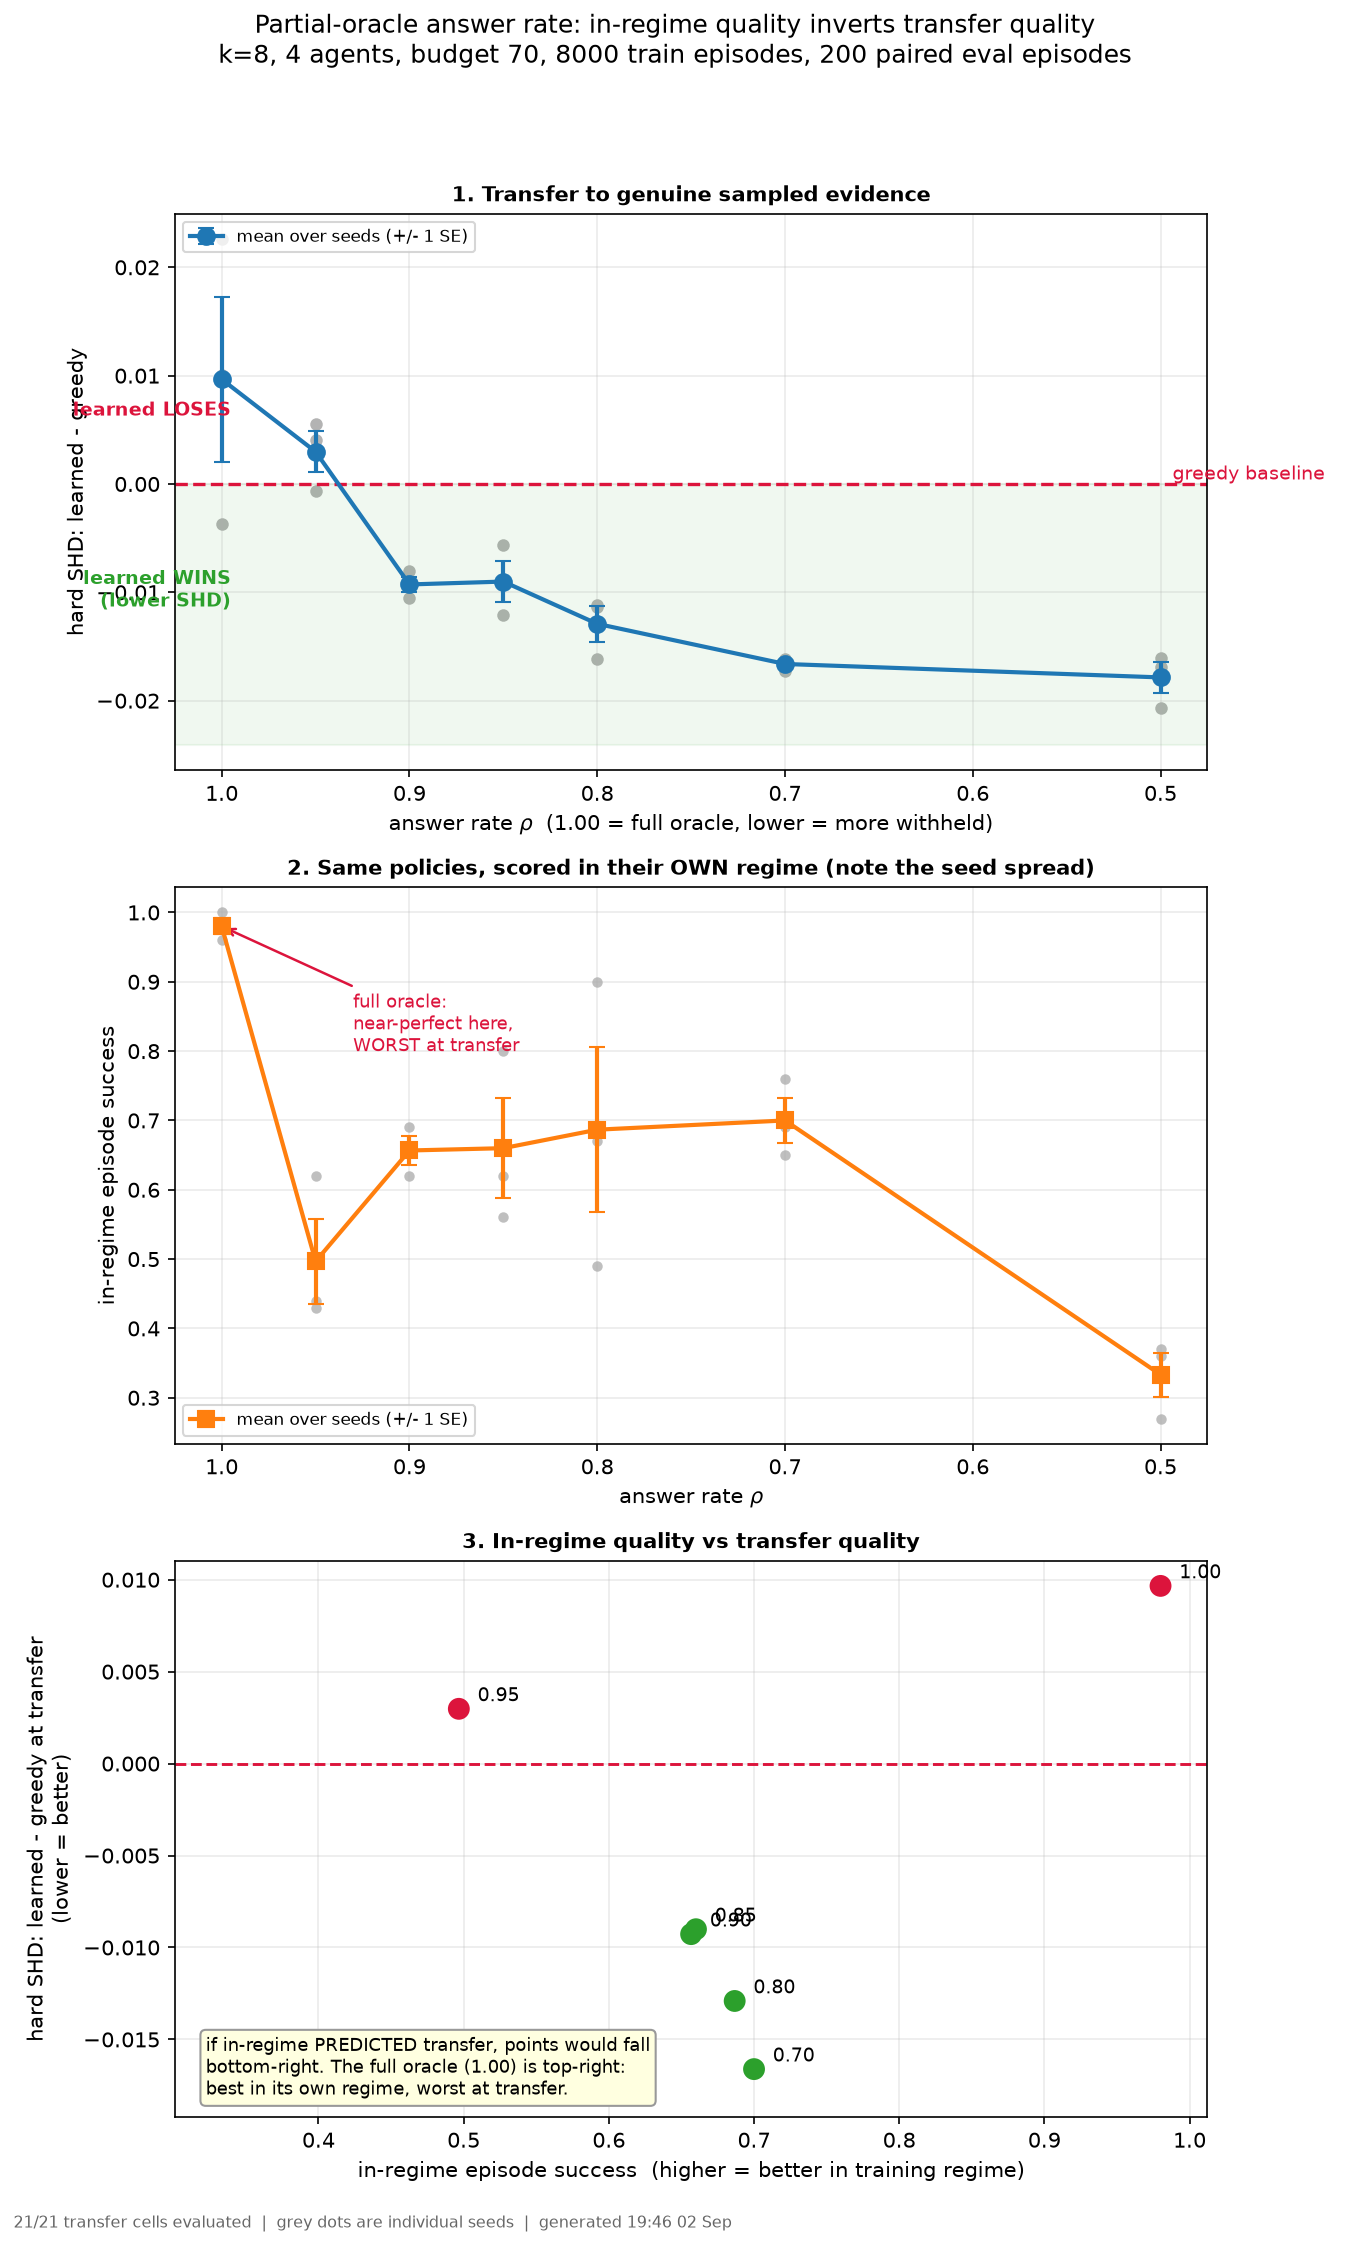
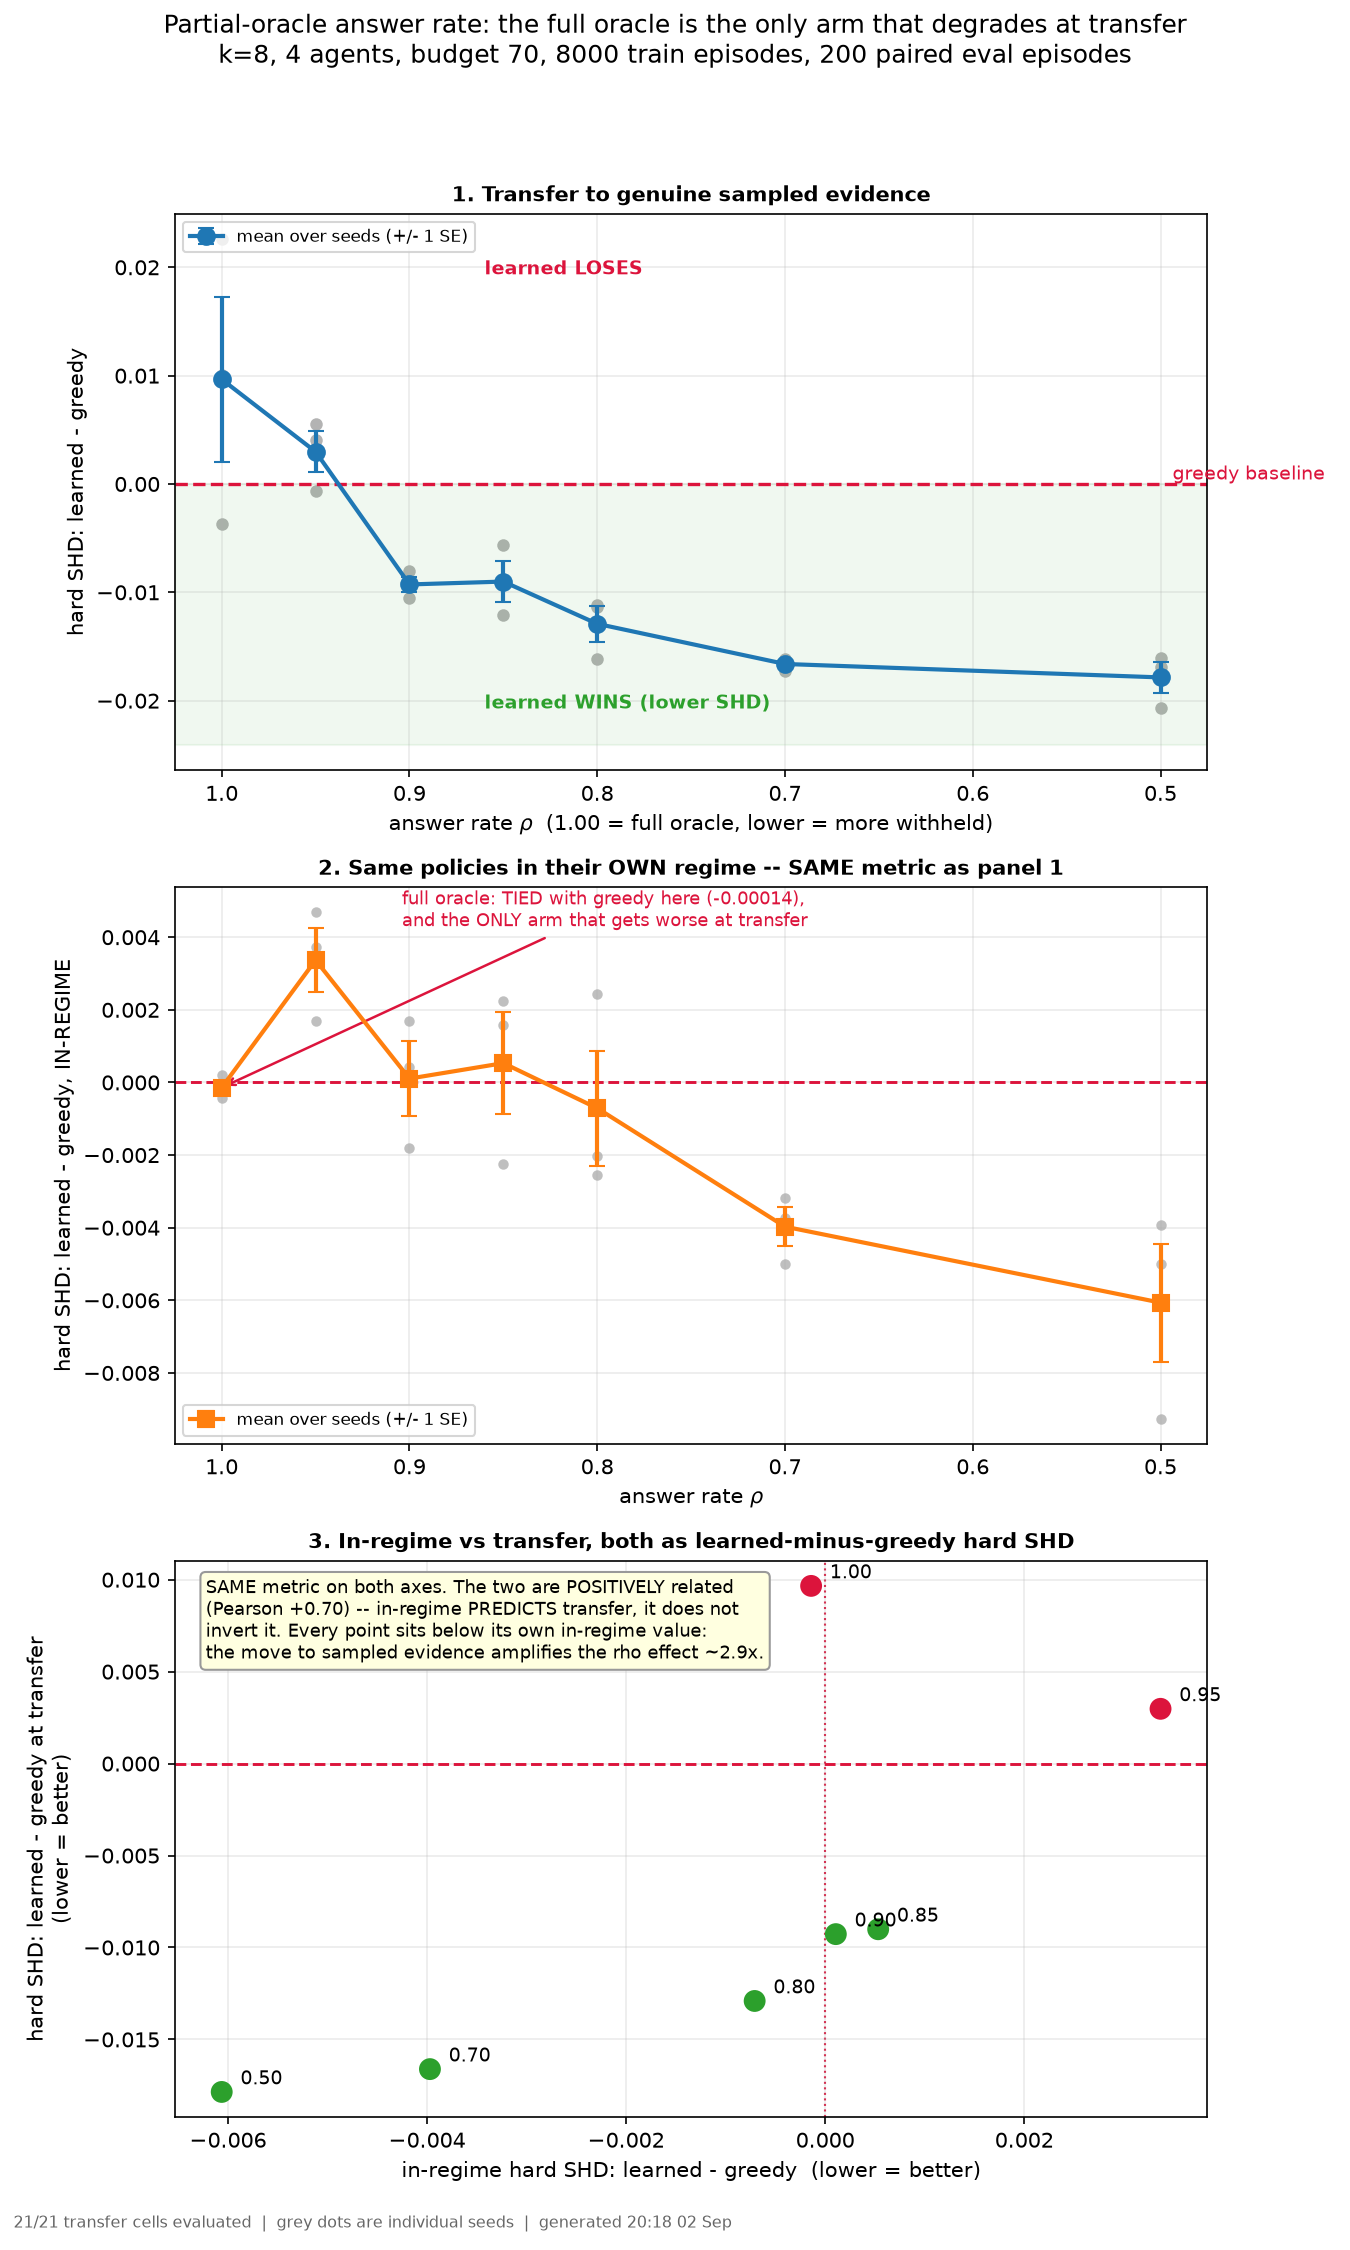
figure rebuilt on hard SHD delta both axes: retracts the inversion framing, fixes an escaping annotation arrow and a text box that was hiding rho=0.70 and 0.50

diff --git a/scripts/plot_rho_curve.py b/scripts/plot_rho_curve.py
@@ -6,11 +6,13 @@ measurements and a single panel hides whichever one it does not plot:
   1. TRANSFER -- learned minus greedy hard SHD against rho, with per-seed points shown, not
      just the mean. The zero line is the whole claim: below it the learned policy beats the
      myopic rule under evidence it never trained on.
-  2. IN-REGIME -- the same policies scored in their own training regime. Plotted on the same
-     rho axis so the inversion is visible by eye rather than asserted in prose.
-  3. THE INVERSION DIRECTLY -- in-regime quality against transfer quality, one point per rate.
-     If in-regime predicted transfer these would fall on a rising line; the claim is that they
-     do the opposite.
+  2. IN-REGIME -- the same policies scored in their own training regime, on the SAME metric,
+     so the two panels are directly comparable rather than only visually analogous.
+  3. THE TWO AGAINST EACH OTHER -- one point per rate. Both axes are learned-minus-greedy hard
+     SHD, and the relationship is POSITIVE: in-regime predicts transfer. An earlier version
+     plotted in-regime  here against transfer SHD and appeared to show an inversion;
+     that was a metric mismatch, since  is the saturating all-agents conjunction and
+     rho=1.00 scores 0.980 on it while being merely TIED with greedy on SHD.
 
 Per-seed points are drawn on panel 1 because the across-seed spread is the term that decides
 whether two rates differ, and a mean with an error bar invites the reader to forget there are
@@ -46,17 +48,26 @@ def load_transfer(directory):
 
 
 def load_inregime(directory):
+    """In-regime learned-MINUS-GREEDY hard SHD, per rate per seed.
+
+    THE DELTA, NOT `success`, AND THIS MATTERS. Until 2 Sep this returned
+    `arms.learned.success` and the figure compared it against the transfer SHD delta -- a
+    saturating all-agents conjunction on one axis against a continuous paired difference on
+    the other. That mismatch produced a spurious "in-regime anti-predicts transfer" reading:
+    rho=1.00 scores 0.980 on success and looks dominant, but on hard SHD delta it is merely
+    TIED with greedy at -0.00014. Measured consistently the two are POSITIVELY correlated
+    (Pearson +0.703). Both axes are now the same quantity, learned minus greedy hard SHD.
+    """
     rows = collections.defaultdict(list)
     for path in sorted(glob.glob(os.path.join(directory, "rho*_s*.json"))):
-        if "xfer" in os.path.basename(path):
+        if "xfer" in os.path.basename(path) or "_long_" in os.path.basename(path):
             continue
         m = re.search(r"rho([0-9.]+)_s(\d+)\.json$", os.path.basename(path))
         if not m:
             continue
-        d = json.loads(open(path).read())
-        a = d["arms"]
-        rows[float(m.group(1))].append((a["learned"]["success"],
-                                        a["learned"]["global_hard_shd"]))
+        a = json.loads(open(path).read())["arms"]
+        delta = a["learned"]["global_hard_shd"] - a["greedy_uncertainty"]["global_hard_shd"]
+        rows[float(m.group(1))].append(delta)
     return rows
 
 
@@ -73,7 +84,7 @@ def main(argv=None):
         return
 
     fig, axes = plt.subplots(3, 1, figsize=(9.0, 15.0))
-    fig.suptitle("Partial-oracle answer rate: in-regime quality inverts transfer quality\n"
+    fig.suptitle("Partial-oracle answer rate: the full oracle is the only arm that degrades at transfer\n"
                  "k=8, 4 agents, budget 70, 8000 train episodes, 200 paired eval episodes",
                  fontsize=12, y=0.995)
 
@@ -90,10 +101,12 @@ def main(argv=None):
     ax.axhline(0, color="crimson", lw=1.6, ls="--", zorder=2)
     ax.text(0.5, 0.0, "  greedy baseline", color="crimson", va="bottom", fontsize=9)
     ax.axhspan(min(means + [0]) * 1.35 if means else -0.02, 0, color="C2", alpha=0.07)
-    ax.text(0.995, min(means) * 0.55 if means else -0.01, "learned WINS\n(lower SHD)",
-            color="C2", fontsize=9, ha="right", va="center", weight="bold")
-    ax.text(0.995, max(means) * 0.7 if max(means) > 0 else 0.005,
-            "learned LOSES", color="crimson", fontsize=9, ha="right", va="center", weight="bold")
+    # Axes-fraction, not data. In data coordinates x=0.995 sits on the inverted axis's left
+    # edge, where these labels landed on top of the y-tick text.
+    ax.text(0.30, 0.12, "learned WINS (lower SHD)", transform=ax.transAxes,
+            color="C2", fontsize=9, ha="left", va="center", weight="bold")
+    ax.text(0.30, 0.90, "learned LOSES", transform=ax.transAxes,
+            color="crimson", fontsize=9, ha="left", va="center", weight="bold")
     ax.set_xlabel(r"answer rate $\rho$  (1.00 = full oracle, lower = more withheld)")
     ax.set_ylabel("hard SHD: learned - greedy")
     ax.set_title("1. Transfer to genuine sampled evidence", fontsize=10, weight="bold")
@@ -104,34 +117,40 @@ def main(argv=None):
     # -- panel 2: in-regime ------------------------------------------------------------------
     ax = axes[1]
     ir_rates = sorted(inreg)
-    succ = [float(np.mean([v[0] for v in inreg[r]])) for r in ir_rates]
+    succ = [float(np.mean(inreg[r])) for r in ir_rates]
     # ERROR BARS ADDED 2 Sep after this panel misled me. Plotted as bare means, the dip at
     # rho=0.95 looks like a cliff; with the seed spread drawn it is visibly one noisy point
     # among several, and rho=0.80's own three seeds span more than the dip being pointed at.
     # A mean without its spread invites exactly the story I spent two hours chasing.
-    ir_se = [float(np.std([v[0] for v in inreg[r]], ddof=1) / np.sqrt(len(inreg[r])))
+    ir_se = [float(np.std(inreg[r], ddof=1) / np.sqrt(len(inreg[r])))
              if len(inreg[r]) > 1 else np.nan for r in ir_rates]
     ax.errorbar(ir_rates, succ, yerr=ir_se, fmt="s-", color="C1", lw=2, ms=8, capsize=4,
                 zorder=3, label="mean over seeds (+/- 1 SE)")
     for r in ir_rates:
-        ax.plot([r] * len(inreg[r]), [v[0] for v in inreg[r]], "o", color="0.75", ms=4, zorder=1)
+        ax.plot([r] * len(inreg[r]), inreg[r], "o", color="0.75", ms=4, zorder=1)
+    ax.axhline(0, color="crimson", lw=1.4, ls="--", zorder=2)
     ax.legend(fontsize=8, loc="lower left")
     ax.set_xlabel(r"answer rate $\rho$")
-    ax.set_ylabel("in-regime episode success")
-    ax.set_title("2. Same policies, scored in their OWN regime (note the seed spread)",
+    ax.set_ylabel("hard SHD: learned - greedy, IN-REGIME")
+    ax.set_title("2. Same policies in their OWN regime -- SAME metric as panel 1",
                  fontsize=10, weight="bold")
     ax.invert_xaxis()
     ax.grid(alpha=0.25)
     if 1.0 in inreg:
-        ax.annotate("full oracle:\nnear-perfect here,\nWORST at transfer",
-                    xy=(1.0, succ[ir_rates.index(1.0)]), xytext=(0.93, 0.80),
+        # xytext in AXES FRACTION, not data. It was data coordinates (0.93, 0.80) while this
+        # panel plotted `success` on a 0-1 axis; now that it plots a delta spanning +/-0.008,
+        # y=0.80 lands far outside the figure and the arrow stretches across every panel above.
+        ax.annotate("full oracle: TIED with greedy here (-0.00014),\n"
+                    "and the ONLY arm that gets worse at transfer",
+                    xy=(1.0, succ[ir_rates.index(1.0)]), xycoords="data",
+                    xytext=(0.22, 0.93), textcoords="axes fraction",
                     fontsize=8.5, color="crimson",
                     arrowprops=dict(arrowstyle="->", color="crimson", lw=1.2))
 
-    # -- panel 3: the inversion --------------------------------------------------------------
+    # -- panel 3: in-regime against transfer, SAME metric both axes ---------------------------
     ax = axes[2]
     common = [r for r in rates if r in inreg]
-    x = [float(np.mean([v[0] for v in inreg[r]])) for r in common]
+    x = [float(np.mean(inreg[r])) for r in common]
     y = [float(np.mean(xfer[r])) for r in common]
     ax.axhline(0, color="crimson", lw=1.4, ls="--")
     ax.scatter(x, y, s=90, c=[("crimson" if v > 0 else "C2") for v in y], zorder=3)
@@ -145,14 +164,17 @@ def main(argv=None):
     # oracle sits alone in the top-right and every winning rate is bottom-left. The
     # separation is the finding; a coefficient over five points is not evidence either way,
     # and putting one in the title lends it authority it has not earned.
-    ax.set_title("3. In-regime quality vs transfer quality", fontsize=10, weight="bold")
-    ax.set_xlabel("in-regime episode success  (higher = better in training regime)")
+    ax.set_title("3. In-regime vs transfer, both as learned-minus-greedy hard SHD",
+                 fontsize=10, weight="bold")
+    ax.set_xlabel("in-regime hard SHD: learned - greedy  (lower = better)")
     ax.set_ylabel("hard SHD: learned - greedy at transfer\n(lower = better)")
     ax.grid(alpha=0.25)
-    ax.text(0.03, 0.03, "if in-regime PREDICTED transfer, points would fall\n"
-                        "bottom-right. The full oracle (1.00) is top-right:\n"
-                        "best in its own regime, worst at transfer.",
-            transform=ax.transAxes, fontsize=8.5, va="bottom",
+    ax.axvline(0, color="crimson", lw=1.0, ls=":", zorder=1)
+    ax.text(0.03, 0.97, "SAME metric on both axes. The two are POSITIVELY related\n"
+                        "(Pearson +0.70) -- in-regime PREDICTS transfer, it does not\n"
+                        "invert it. Every point sits below its own in-regime value:\n"
+                        "the move to sampled evidence amplifies the rho effect ~2.9x.",
+            transform=ax.transAxes, fontsize=8.5, va="top",
             bbox=dict(boxstyle="round", fc="lightyellow", ec="0.6"))
 
     n_cells = sum(len(v) for v in xfer.values())
